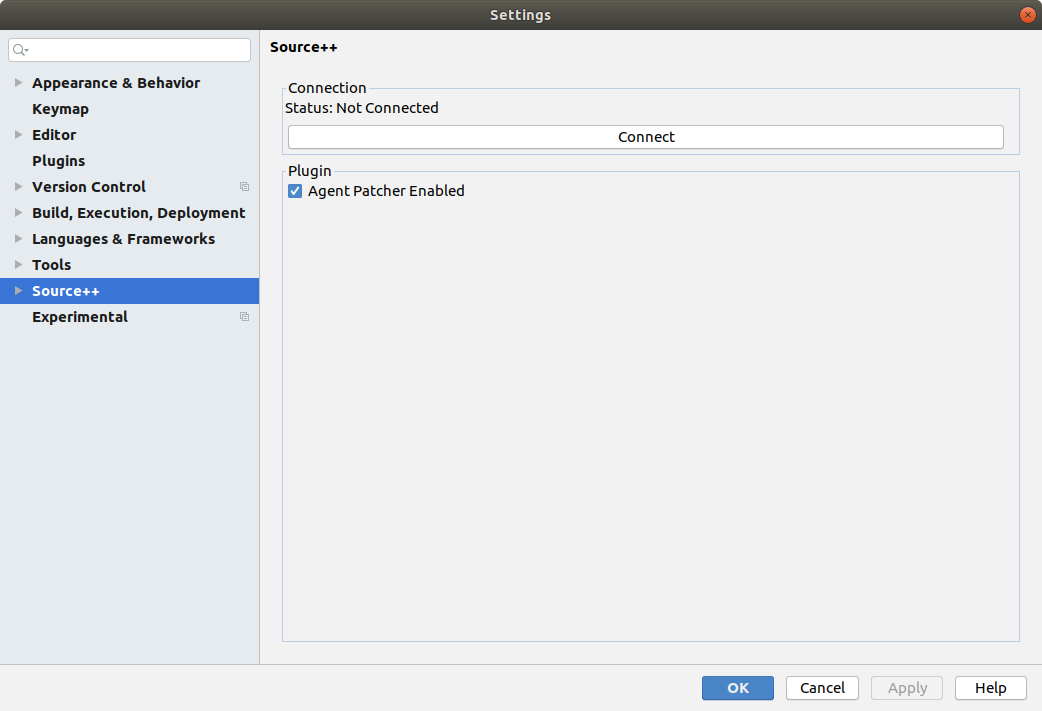
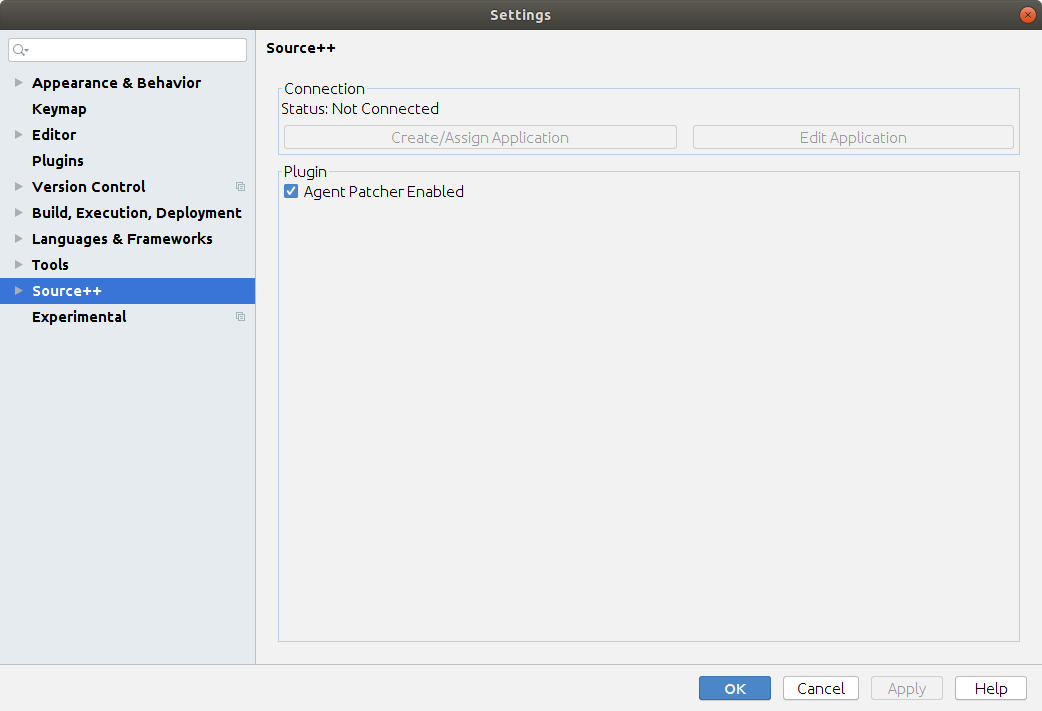
readme update

diff --git a/docs/markdown/01-introduction/06-configure-source-plugin.md b/docs/markdown/01-introduction/06-configure-source-plugin.md
@@ -2,19 +2,25 @@ Once you've downloaded and installed the Source++ Plugin, you will need to conne
 
 # Connect Source++ Plugin
 
-To connect the Source++ Plugin to a Source++ Core server go to: `File >> Settings >> Source++`. Depending on your setup the Source++ settings may also be located at: `File >> Settings >> Other Settings >> Source++`.
+To connect the Source++ Plugin to a Source++ Core server go to:
+ - `File >> Settings >> Source++ >> Manage Environments`
+ 
+Depending on your setup, the Source++ settings may also be located at:
+ - `File >> Settings >> Other Settings >> Source++ >> Manage Environments`
 
-![](../../images/plugin/Source++%20Settings.png)
+![](../../images/plugin/Manage%20Environments.png)
 
 Here you will find the ability to connect to a Source++ Core server. Clicking connect will bring up the following window:
 
 ![](../../images/plugin/Connect%20Source++.png)
 
-Input the host and API key (if necessary). You can test this connection by pressing "Test Connection". If everything works correctly you should see something similar to the following output:
+Input the connection settings and API key (if necessary). You can test this connection by pressing "Test Connection". If everything worked correctly you should see something similar to the following window:
 
 ![](../../images/plugin/Successful%20Connection.png)
 
 # Create/Assign Application
+
+![](../../images/plugin/Status%20Connected.png)
 
 Once you've successfully connected the Source++ Plugin there is a final step before being able to use the plugin. This is creating or assigning a Source++ application for the current project. Pressing the "Create/Assign Application" button will bring up the following dialog:
 
